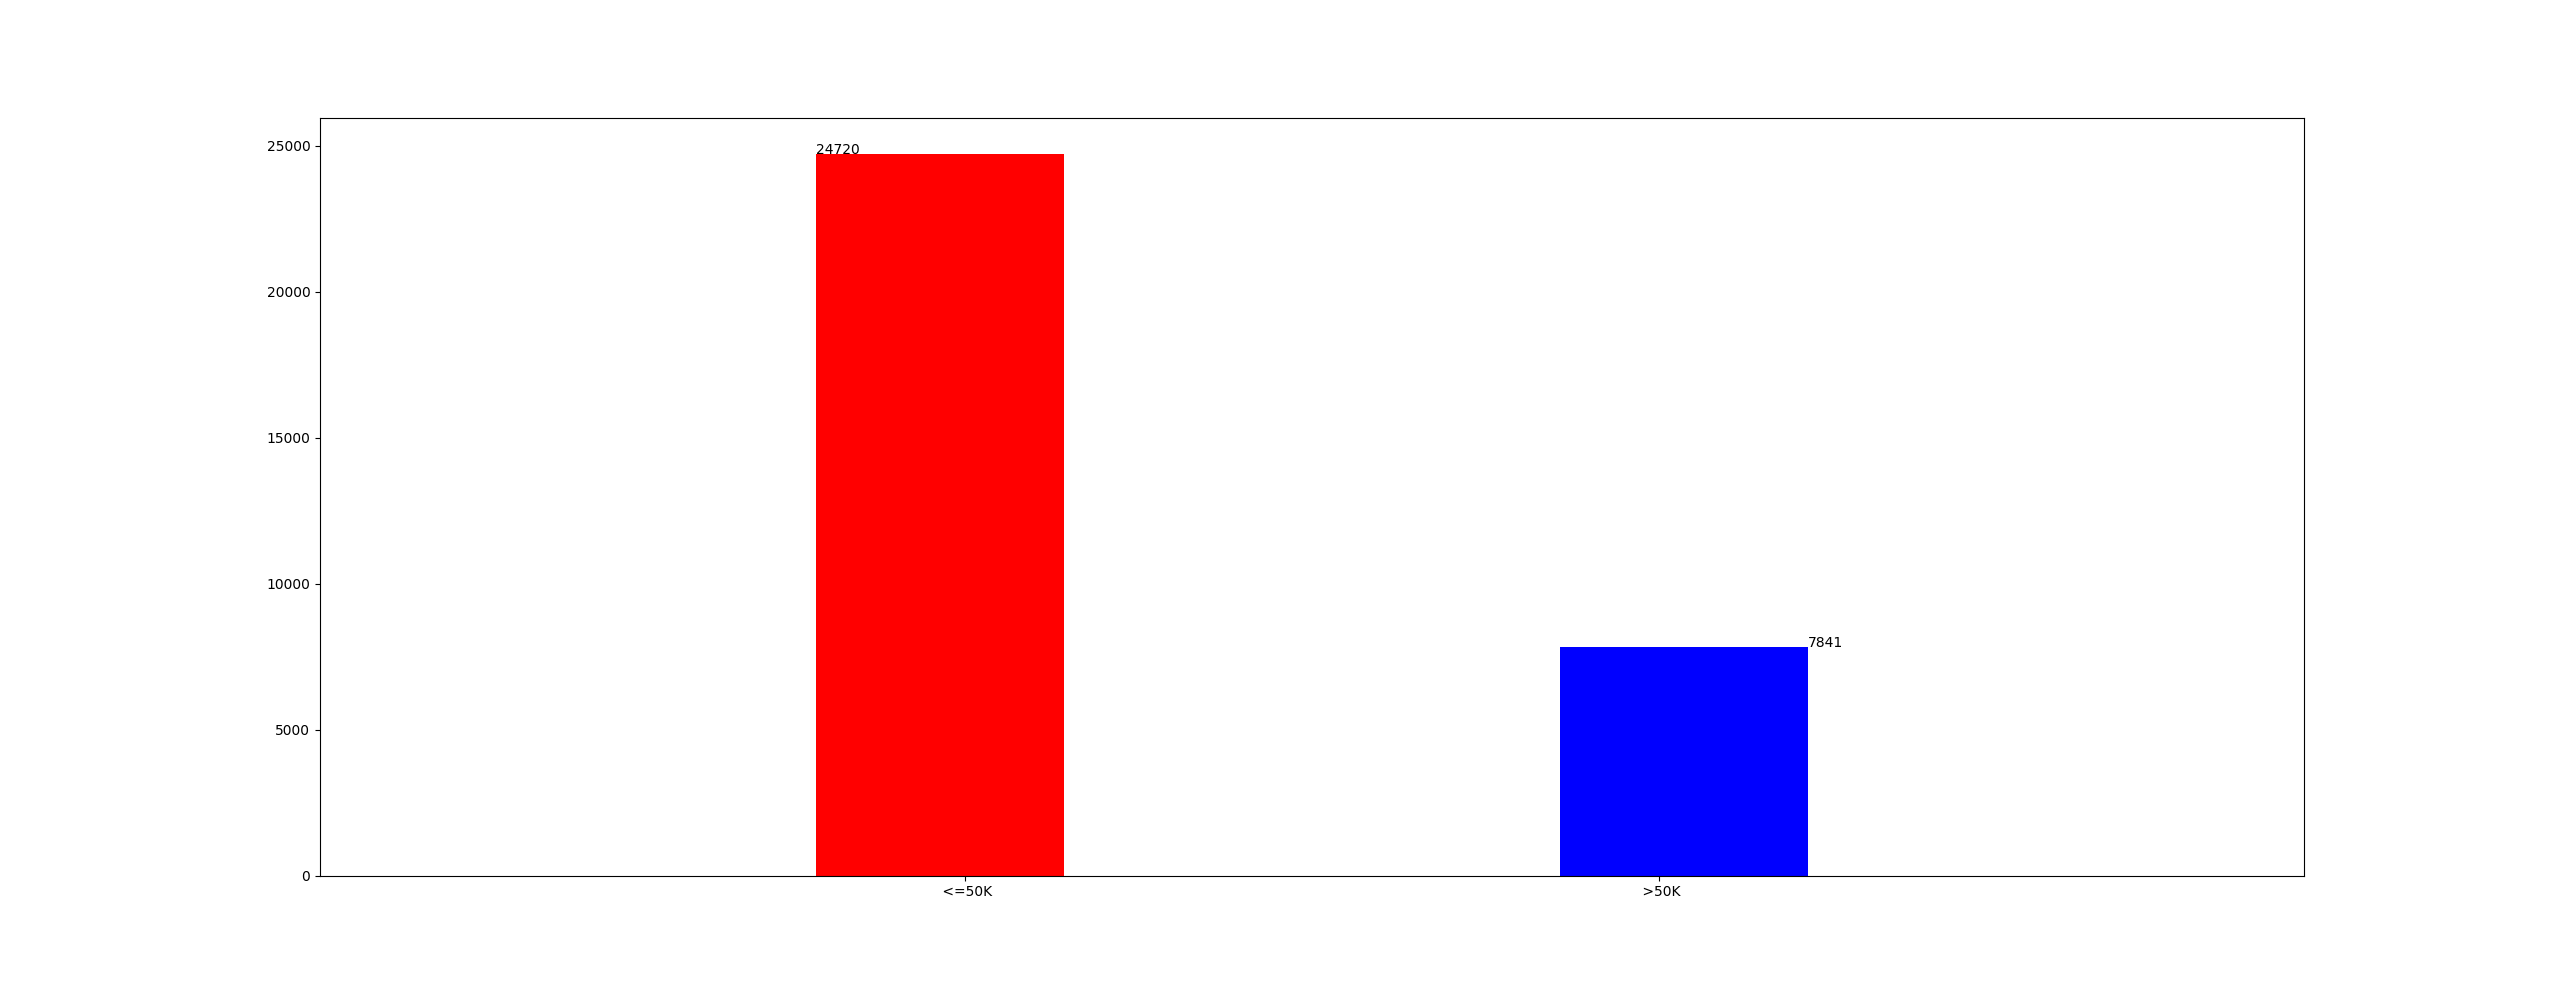
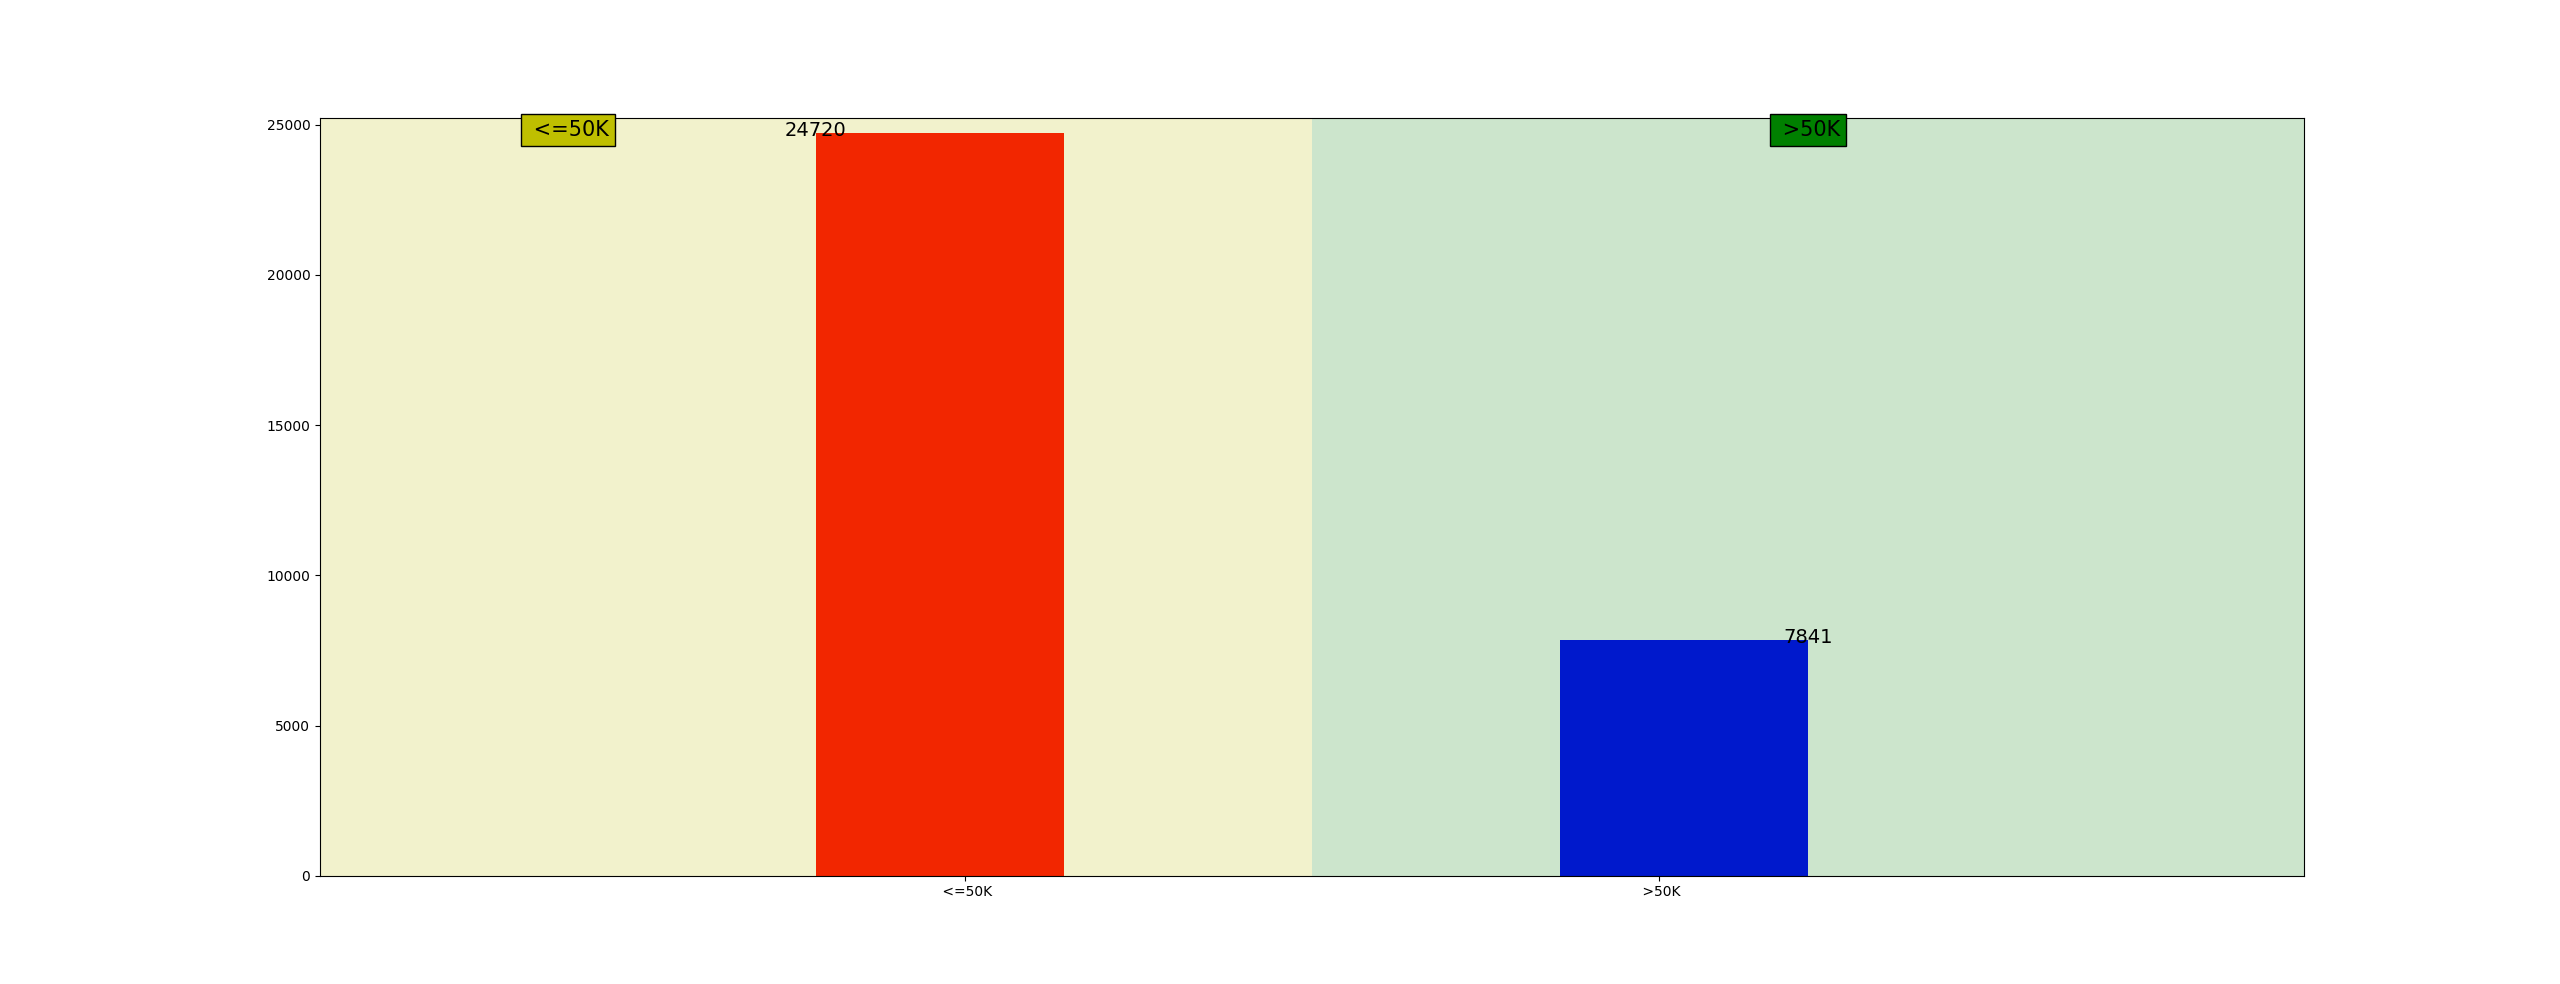
Histogram

diff --git a/adultMain.py b/adultMain.py
@@ -56,51 +56,51 @@ def main():
     labels, income = dw.sortDataPerLabels(data, 14)
     incomeToPlot = dw.convertDataPerLabel(income)
     hc.plotHist1d(incomeToPlot, labels)
-
-    #Workclass
-    labels, sex = dw.sortDataPerLabels(data, 14, 1)
-    sexToPlot = dw.convertDataPerLabel(sex)
-    hc.plotHistLevel2(sexToPlot, labels)
-
-    #SEX
-    labels, sex = dw.sortDataPerLabels(data, 14, 9)
-    sexToPlot = dw.convertDataPerLabel(sex)
-    hc.plotHistLevel2(sexToPlot, labels)
-
-    #RACE
-    labels, sex = dw.sortDataPerLabels(data, 14, 8)
-    sexToPlot = dw.convertDataPerLabel(sex)
-    hc.plotHistLevel2(sexToPlot, labels)
-
-    #RELATIONSHIP
-    labels, sex = dw.sortDataPerLabels(data, 14, 7)
-    sexToPlot = dw.convertDataPerLabel(sex)
-    hc.plotHistLevel2(sexToPlot, labels)
-
-    # MARITAL
-    labels, sex = dw.sortDataPerLabels(data, 14, 5)
-    sexToPlot = dw.convertDataPerLabel(sex)
-    hc.plotHistLevel2(sexToPlot, labels)
-
-    # OCCUPATION
-    labels, sex = dw.sortDataPerLabels(data, 14, 6)
-    sexToPlot = dw.convertDataPerLabel(sex)
-    hc.plotHistLevel2(sexToPlot, labels)
-
-    # EDUCATION
-    labels, sex = dw.sortDataPerLabels(data, 14, 3)
-    sexToPlot = dw.convertDataPerLabel(sex)
-    hc.plotHistLevel2(sexToPlot, labels)
-
-    # COUNTRY
-    labels, sex = dw.sortDataPerLabels(data, 14, 13)
-    sexToPlot = dw.convertDataPerLabel(sex)
-    hc.plotHistLevel2(sexToPlot, labels)
-
-    labels, education = dw.sortDataPerLabels(data, 14, 9, 3)
-    educationToPlot = dw.convertDataPerLabel(education)
-    hc.plotHistLevel3(educationToPlot, labels)
-
+    #
+    # #Workclass
+    # labels, sex = dw.sortDataPerLabels(data, 14, 1)
+    # sexToPlot = dw.convertDataPerLabel(sex)
+    # hc.plotHistLevel2(sexToPlot, labels)
+    #
+    # #SEX
+    # labels, sex = dw.sortDataPerLabels(data, 14, 9)
+    # sexToPlot = dw.convertDataPerLabel(sex)
+    # hc.plotHistLevel2(sexToPlot, labels)
+    #
+    # #RACE
+    # labels, sex = dw.sortDataPerLabels(data, 14, 8)
+    # sexToPlot = dw.convertDataPerLabel(sex)
+    # hc.plotHistLevel2(sexToPlot, labels)
+    #
+    # #RELATIONSHIP
+    # labels, sex = dw.sortDataPerLabels(data, 14, 7)
+    # sexToPlot = dw.convertDataPerLabel(sex)
+    # hc.plotHistLevel2(sexToPlot, labels)
+    #
+    # # MARITAL
+    # labels, sex = dw.sortDataPerLabels(data, 14, 5)
+    # sexToPlot = dw.convertDataPerLabel(sex)
+    # hc.plotHistLevel2(sexToPlot, labels)
+    #
+    # # OCCUPATION
+    # labels, sex = dw.sortDataPerLabels(data, 14, 6)
+    # sexToPlot = dw.convertDataPerLabel(sex)
+    # hc.plotHistLevel2(sexToPlot, labels)
+    #
+    # # EDUCATION
+    # labels, sex = dw.sortDataPerLabels(data, 14, 3)
+    # sexToPlot = dw.convertDataPerLabel(sex)
+    # hc.plotHistLevel2(sexToPlot, labels)
+    #
+    # # COUNTRY
+    # labels, sex = dw.sortDataPerLabels(data, 14, 13)
+    # sexToPlot = dw.convertDataPerLabel(sex)
+    # hc.plotHistLevel2(sexToPlot, labels)
+    #
+    # labels, education = dw.sortDataPerLabels(data, 14, 9, 3)
+    # educationToPlot = dw.convertDataPerLabel(education)
+    # hc.plotHistLevel3(educationToPlot, labels)
+    #
 
     #TODO 3rd level histogram
 

diff --git a/histogramClass.py b/histogramClass.py
@@ -17,12 +17,32 @@ class histogramAdult():
         colors = ["r", "b"]
         ax.hist(data, color=colors, rwidth=1, align="mid", bins=2)
         ax.set_xlim(0.5, len(data)+.5)
+
         xticks = []
+        # for datum in data:
+        #     xticks.append(datum[0])
+        #     ax.annotate(str(datum.size), xy=(datum[0], datum.size))
+        i = 1.5
         for datum in data:
-            xticks.append(datum[0])
-            ax.annotate(str(datum.size), xy=(datum[0], datum.size))
+            if datum.size == 0:
+                plt.text(i, 0, 0, fontsize=14, horizontalalignment='center', verticalalignment='center')
+            else:
+                plt.text(datum[0], datum.size + 100, datum.size, fontsize=14, horizontalalignment='center',
+                         verticalalignment='center')
+            i += 1
+        maxY = max([len(datum) for datum in data])
+        ax.set_ylim(0, maxY + 500)
         ax.set_xticks([1.15, 1.85])
         ax.set_xticklabels(labels[0])
+        p = mpatches.Rectangle((0, 0), (len(data) / 2) + .5, maxY + 500, facecolor="y", alpha=.2)
+        q = mpatches.Rectangle(((len(data) / 2) + .5, 0), len(data) / 2, maxY + 500, facecolor="g", alpha=.2)
+        plt.text(.75, maxY + 100, labels[0][0], fontsize=15, horizontalalignment='center',
+                 verticalalignment='center', bbox=dict(facecolor='y'))
+        plt.text(2, maxY + 100, labels[0][1], fontsize=15, horizontalalignment='center',
+                 verticalalignment='center', bbox=dict(facecolor='g'))
+
+        ax.add_patch(p)
+        ax.add_patch(q)
         plt.show()
 
     def plotHistLevel2(self, data, labels):
